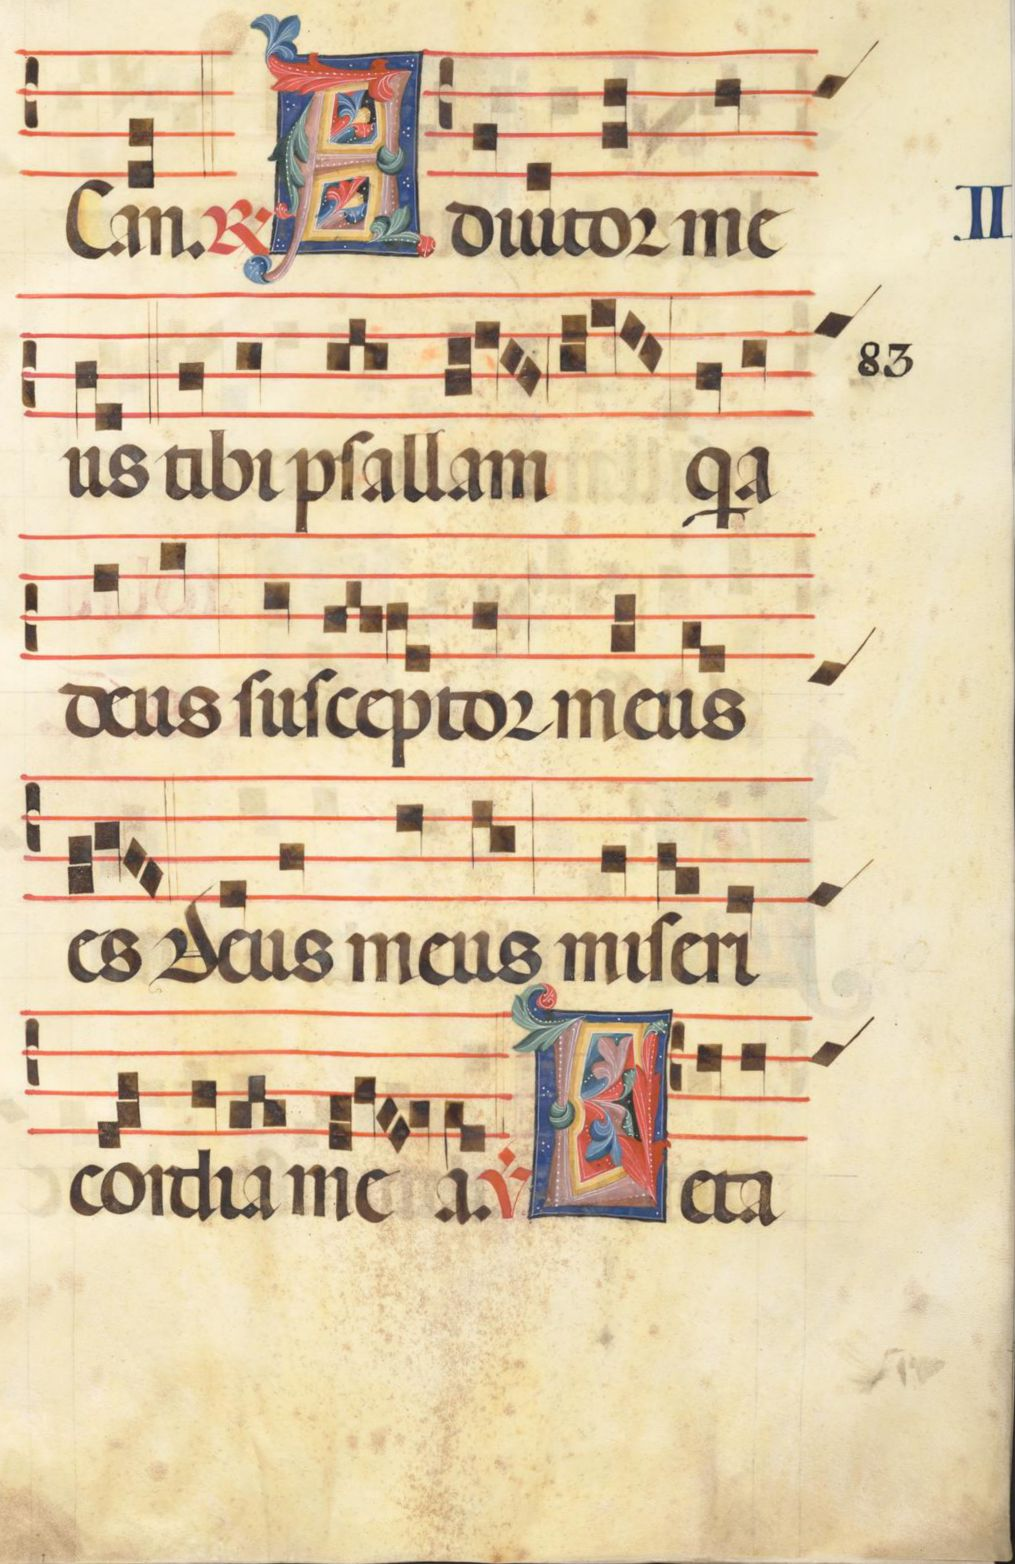
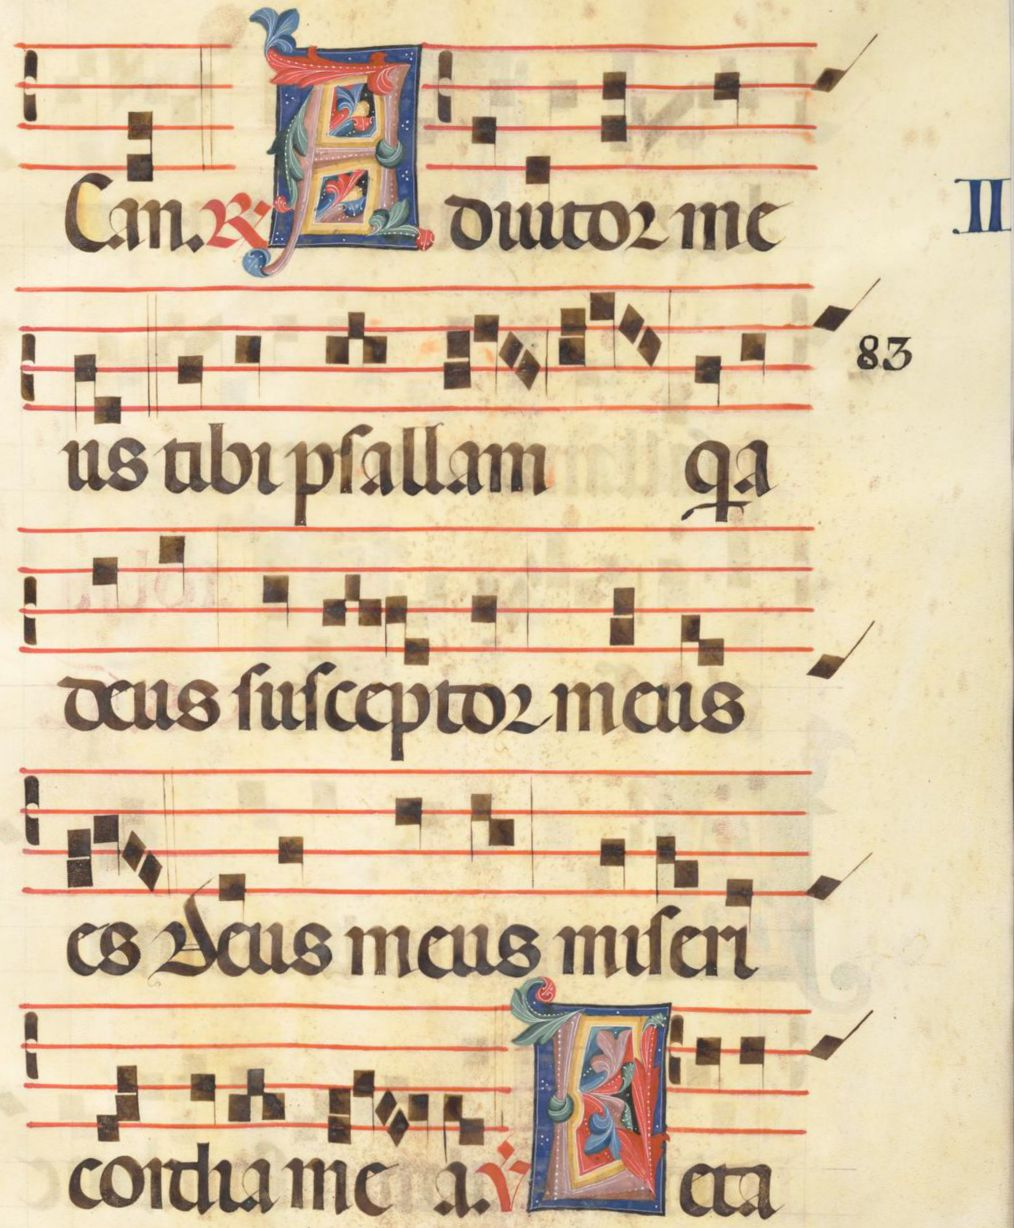
Borda preta: medida em mm nas paginas do Samuel; conta so na pagina recortada
- 'ate a moldura' mede o impresso so dentro da pagina achada (recorte, mesmo DPI); antes
  pintava o resto de branco e, no papel escuro do Camoes 104, cortava a gravura.
- a beirada do preto termina linha a linha.
- tests/test_borda_preta_paginas_do_samuel.py: Antiphon 260 e 88, Camoes 104, Cursus 3,
  Matematica 32 e Pesel 21, preparadas como no programa (dividir, endireitar), com a
  medida do verificador em mm. Reversao do Pesel 21 falha no 7020734.

diff --git a/tests/test_borda_preta_paginas_do_samuel.py b/tests/test_borda_preta_paginas_do_samuel.py
@@ -1,0 +1,132 @@
+"""A borda preta (item 2.13) nas páginas que o Samuel escolheu como alvo, com
+a MEDIDA em mm de preto que sobra em cada beirada (pedido da gerente, 21/10).
+
+Palavras dele (20/10/2026): Antiphon 260 "tem que cortar a faixa inteira.";
+Antiphon 88 "Tem que cortar em cima e embaixo e dos lados ainda tem um fio
+preto."; Camões 104 "É para sumir totalmente."; Cursus 3 "tem que ficar
+rente a folha de papel, não pode ter preto ali."; Matemática 32 "ainda estou
+vendo a faixa preta.". Pesel 21: tem de continuar inteiro (conserto do corte,
+aprovado em 20/10).
+
+Regra dele para os testes (20/10): "deveriamos ter indireitado a folha antes
+de cortar [...]": a página passa pelo programa inteiro (analisar_projeto e
+renderizar_pagina: dividir, endireitar e cortar, livro novo), não a crua.
+
+A medida é a do verificador do corte (relatorios/conserto-corte-g6/scripts/
+medir.py, _beirada e _por_lado): faixa mais escura que 60% do papel encostada
+na beirada, em mm, percentil 90 ao longo de cada lado. Precisa das páginas do
+estudo (fora do git): sem elas, pula (no GitHub, pula).
+"""
+
+from __future__ import annotations
+
+import sys
+from pathlib import Path
+
+import pytest
+
+fitz = pytest.importorskip("fitz")
+
+RAIZ = Path(__file__).resolve().parents[1]
+PAGINAS = Path(r"D:\programas\EditorImpressao-arquivos\revisar-decisoes-trabalho\paginas")
+MEDIDA = RAIZ / "relatorios" / "conserto-corte-g6" / "scripts"
+DPI = 150
+
+pytestmark = pytest.mark.skipif(not PAGINAS.is_dir() or not (MEDIDA / "medir.py").is_file(),
+                                reason="sem as páginas do estudo (fora do git)")
+
+
+def _pronta(pid: str, **campos):
+    from core import pipeline as P
+    from core import st_ferramentas
+    from core.filtros import ORIGINAL
+    from core.pdf_io import abrir_pdf
+    from modelos import Projeto
+
+    if st_ferramentas.padrao().funcao("st_ferramentas_caixas") is None:
+        pytest.skip("sem a DLL do ScanTailor")
+    projeto = Projeto(caminho_entrada=str(PAGINAS / f"{pid}.pdf"), nome=pid, **campos)
+    projeto.filtro_padrao, projeto.limpar, projeto.qualidade_dpi = ORIGINAL, False, DPI
+    projeto = P.analisar_projeto(projeto)
+    for g in (P._GEOMETRIAS, P._CONTEUDOS, P._TAMANHOS):
+        g.clear()
+    doc = abrir_pdf(projeto.caminho_entrada)
+    try:
+        final, _ = P.renderizar_pagina(doc, projeto, projeto.paginas[0], dpi=DPI)
+    finally:
+        doc.close()
+    return final
+
+
+def _preto_mm(final) -> dict:
+    sys.path.insert(0, str(MEDIDA))
+    import medir as verif
+
+    cinza = verif._cinza(final)
+    _fr, encosta, f = verif._beirada(cinza < 0.6 * verif._nivel_do_papel(cinza))
+    verif.DPI = DPI
+    return {k: v["mm"] for k, v in verif._por_lado(encosta, f).items()}
+
+
+TOLERANCIA_MM = 1.0     # arredondamento a 150 DPI (um ponto = 0,17 mm) e papel rasgado
+
+
+@pytest.mark.parametrize("pid", ["antiphon_p260", "antiphon_p088", "camoes_p104"])
+def test_ate_a_moldura_nao_sobra_preto(pid):
+    """"Até a moldura" (o que vem escolhido): nenhuma faixa preta nas quatro
+    beiradas."""
+    lados = _preto_mm(_pronta(pid, borda_preta=True, borda_preta_ate="ate_a_moldura"))
+    assert max(lados.values()) <= TOLERANCIA_MM, lados
+
+
+def _faixa_escura_na_beirada(final, lado: str, de: float, ate: float, mm: float = 2.0) -> float:
+    """Fração escura (mais que 55% abaixo do papel) numa tira de `mm` junto da
+    beirada `lado`, só entre as frações `de` e `ate` do comprimento do lado."""
+    import cv2
+    import numpy as np
+
+    cinza = final if final.ndim == 2 else cv2.cvtColor(final, cv2.COLOR_BGR2GRAY)
+    a, l = cinza.shape
+    papel = float(np.percentile(cinza[a // 4:3 * a // 4, l // 4:3 * l // 4], 90))
+    n = max(1, int(round(mm * DPI / 25.4)))
+    faixas = {"dir": cinza[int(a * de):int(a * ate), l - n:], "pe": cinza[a - n:, int(l * de):int(l * ate)],
+              "esq": cinza[int(a * de):int(a * ate), :n], "topo": cinza[:n, int(l * de):int(l * ate)]}
+    return float((faixas[lado] < 0.45 * papel).mean())
+
+
+def test_matematica_32_ate_a_moldura_sem_a_faixa_do_scanner():
+    """Matemática 32: a faixa preta do scanner (embaixo e à direita) some. A
+    medida do verificador não serve aqui: o bloco escuro impresso do
+    "Capítulo 2" encosta na beirada quando o corte é rente ao impresso; por
+    isso a tira é medida embaixo e no lado, abaixo do título."""
+    final = _pronta("matematica_p032", borda_preta=True, borda_preta_ate="ate_a_moldura")
+    for lado in ("pe", "dir", "esq"):
+        assert _faixa_escura_na_beirada(final, lado, 0.25, 1.0) <= 0.05, lado
+
+
+def test_cursus_3_ate_a_moldura_rente_sem_o_preto_de_fora():
+    """Cursus 3: não sobra preto de fora do papel à direita nem embaixo nem em
+    cima. RESSALVA (20/10): à esquerda sobra um traço preto vertical que está
+    DENTRO do papel, ao lado do título (o ScanTailor o conta como conteúdo);
+    a medida dá ~3 mm desse lado, e este teste prende que não piore."""
+    lados = _preto_mm(_pronta("cursus_p003", borda_preta=True, borda_preta_ate="ate_a_moldura"))
+    assert max(lados["dir"], lados["pe"], lados["topo"]) <= TOLERANCIA_MM, lados
+    assert lados["esq"] <= 3.5, lados
+
+
+@pytest.mark.parametrize("pid", ["antiphon_p260", "antiphon_p088", "camoes_p104", "matematica_p032"])
+def test_so_o_preto_tira_a_faixa_do_meio_dos_lados(pid):
+    """"Só o preto": no meio dos lados não sobra faixa (percentil 90).
+    As pontas dos cantos de folha torta ficam, como a pergunta dizia."""
+    lados = _preto_mm(_pronta(pid, borda_preta=True, borda_preta_ate="so_o_preto"))
+    assert max(lados.values()) <= TOLERANCIA_MM, lados
+
+
+def test_pesel_21_so_o_preto_continua_inteiro():
+    """Pesel 21 (cartão marrom escuro): "só o preto" sai igual ao de hoje (o
+    cartão não é fundo de scanner: não é cinza). Reversão do defeito achado em
+    20/10: antes da regra da cor neutra, cortava o título e o número 3
+    (157 x 241 mm -> 138 x 223 mm)."""
+    hoje = _pronta("pesel_p021")
+    so = _pronta("pesel_p021", borda_preta=True, borda_preta_ate="so_o_preto")
+    assert abs(so.shape[0] - hoje.shape[0]) <= 3 and abs(so.shape[1] - hoje.shape[1]) <= 3

diff --git a/core/corte_pelo_conteudo.py b/core/corte_pelo_conteudo.py
@@ -157,9 +157,8 @@ def medir(img: np.ndarray, dpi_do_desenho=None, dpi_do_scan=None, *,
         moldura") procura antes a página dentro da borda preta (PageFinder), e
         a caixa dela vira o `limite` da medida.
     limite: (item 2.13, "só o preto") a página já achada por outra conta, em
-        pontos: o conteúdo é procurado só dentro dele (o resto da imagem é
-        pintado de branco numa cópia antes de ir à DLL) e o corte não passa
-        dele.
+        pontos: o conteúdo é procurado só dentro dele (só esse pedaço vai à
+        DLL, com o DPI da imagem inteira) e o corte não passa dele.
     Nunca levanta exceção: sem a DLL, volta sem caixa e com o motivo (e com o
     limite, se veio)."""
     altura, largura = (img.shape[:2] if img is not None and getattr(img, "ndim", 0) >= 2
@@ -167,12 +166,20 @@ def medir(img: np.ndarray, dpi_do_desenho=None, dpi_do_scan=None, *,
     opcoes = {"achar_pagina": bool(achar_pagina and limite is None)}
     if biblioteca is not None:
         opcoes["biblioteca"] = biblioteca
-    entrada = img
+    dx = dy = 0
     if limite is not None and img is not None and largura and altura:
+        # So a pagina vai a conta (recortada, sem copiar), com o MESMO DPI da
+        # imagem inteira. Ate 20/10/2026 o resto era pintado de branco numa
+        # copia: num papel escuro (Camoes 104, tom 109) essa moldura branca
+        # fazia o ScanTailor cortar a gravura.
         x0, y0, x1, y1 = (int(round(v)) for v in limite)
-        entrada = np.full_like(img, 255)
-        entrada[max(0, y0):y1, max(0, x0):x1] = img[max(0, y0):y1, max(0, x0):x1]
-    r = cs.achar_na_pagina(entrada, dpi_do_desenho, dpi_do_scan, **opcoes)
+        x0, y0 = max(0, x0), max(0, y0)
+        x1, y1 = min(largura, max(x0 + 1, x1)), min(altura, max(y0 + 1, y1))
+        dpi_dito = cs.dpi_para_as_caixas(largura, altura, dpi_do_desenho, dpi_do_scan)
+        r = cs.achar(img[y0:y1, x0:x1], dpi_dito, **opcoes)
+        dx, dy = x0, y0
+    else:
+        r = cs.achar_na_pagina(img, dpi_do_desenho, dpi_do_scan, **opcoes)
     if not r.disponivel or r.dpi is None:
         return MedidaDoConteudo(largura, altura, None, None, None, r.motivo, limite)
     if limite is None and opcoes["achar_pagina"]:
@@ -181,6 +188,7 @@ def medir(img: np.ndarray, dpi_do_desenho=None, dpi_do_scan=None, *,
     if not r.tem_conteudo:
         return MedidaDoConteudo(largura, altura, None, None, mm, "a página não tem conteúdo", limite)
     caixa = r.conteudo.como_tupla()
+    caixa = (caixa[0] + dx, caixa[1] + dy, caixa[2] + dx, caixa[3] + dy)
     if limite is not None:                    # a caixa nunca sai da página
         caixa = (max(caixa[0], limite[0]), max(caixa[1], limite[1]),
                  min(caixa[2], limite[2]), min(caixa[3], limite[3]))
